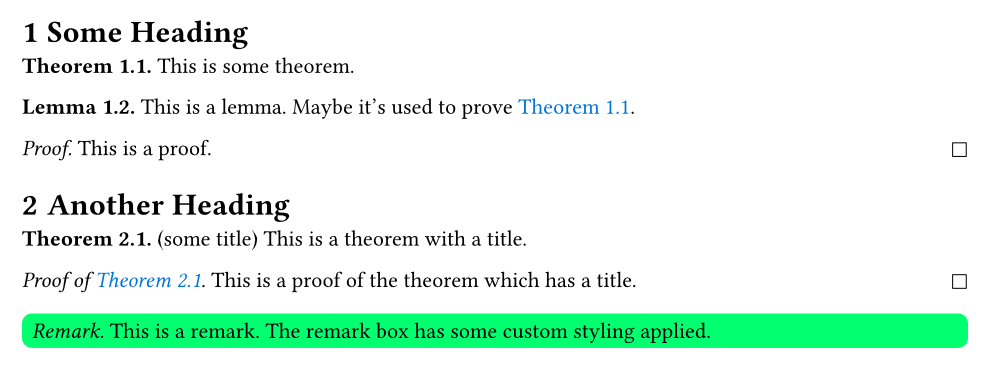
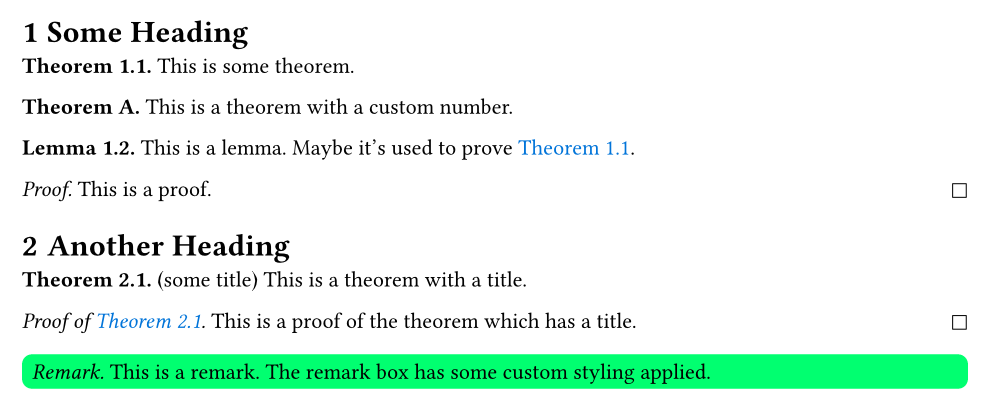
add custom number functionality

diff --git a/README.md b/README.md
@@ -63,6 +63,10 @@ You can also use [headcount](https://typst.app/universe/package/headcount/).
   This is some theorem.
 ] <mythm>
 
+#theorem(number: "A")[
+  This is a theorem with a custom number.
+]
+
 #lemma[
   This is a lemma. Maybe it's used to prove @mythm.
 ]
@@ -155,6 +159,11 @@ We now list and explain all possible arguments (apart from the body).
 - `title` (default: `none`)
 
   This allows you to set a title for your theorem/lemma/..., which will be displayed according to `titlix`.
+
+- `number` (defaults to use the counter)
+
+  This is only settable when it's a counted environment. It allows you to change the number to arbitrary content, e.g. `#theorem(number: [A])[ ... ]` will display "**Theorem A.** ...".
+  Note that, if this is set, it will _not_ increase the counter, so you would have e.g. Theorem 2.3, then Theorem A, then Theorem 2.4.
 
 - all the arguments from `mathblock`, except `blocktitle` and `counter`
 
